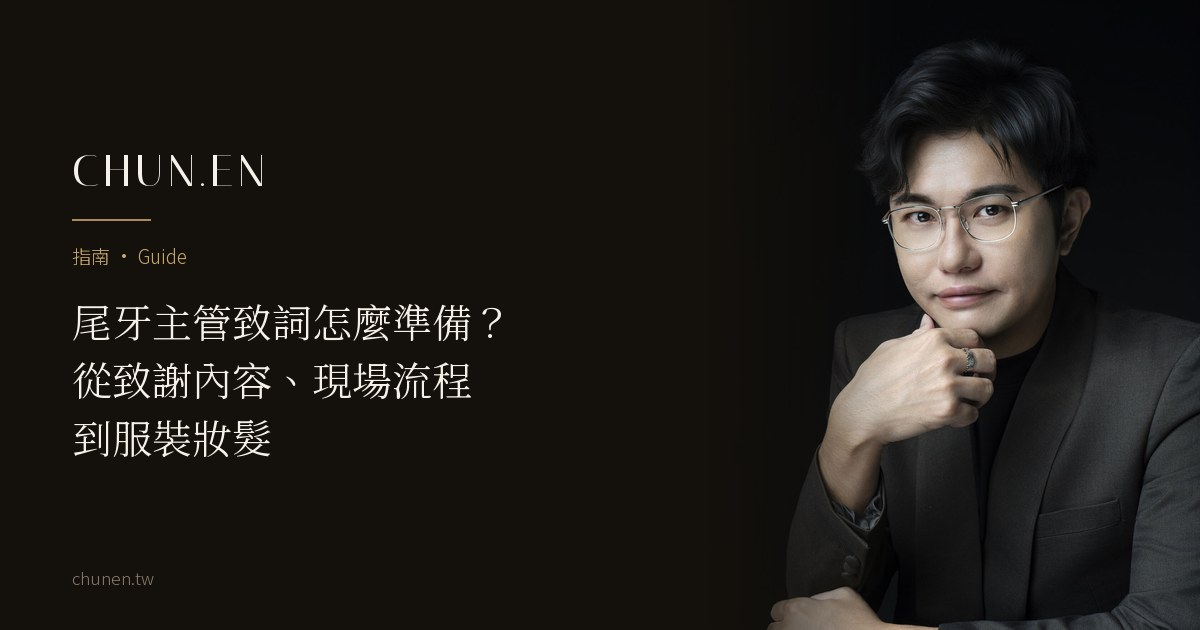
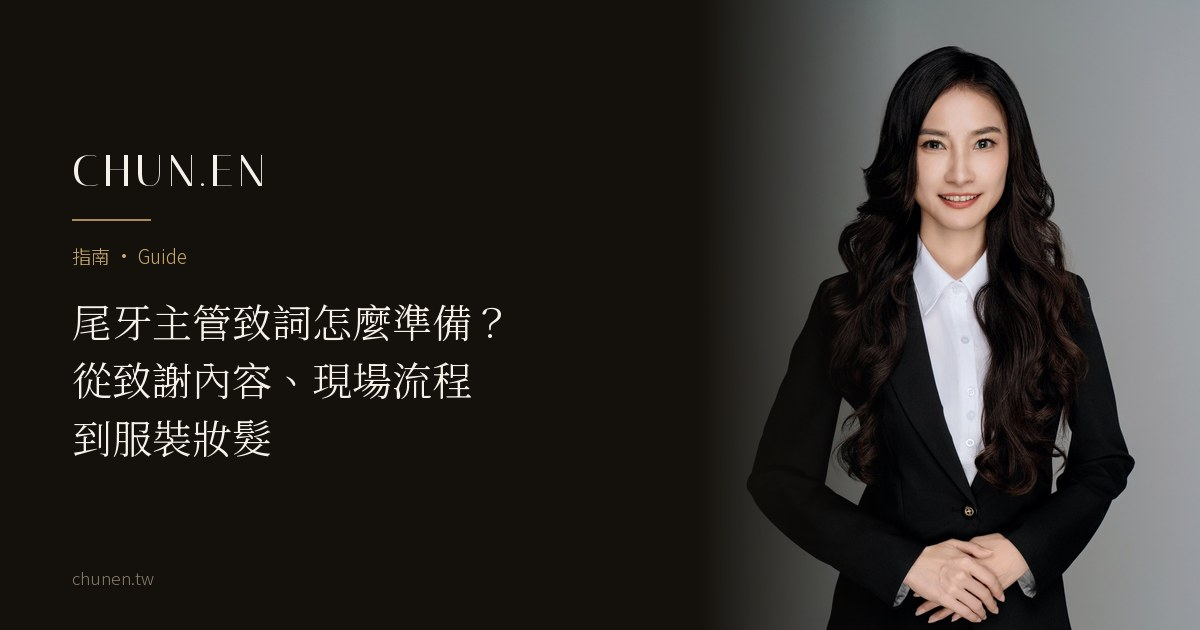
主管致詞、視訊面試預覽換客戶照主圖與分享卡（user 選定；仍 noindex）

Changed region(s): [[0.6167, 0.0, 1.0, 1.0]]

diff --git a/journal/year-end-stage-presence.html b/journal/year-end-stage-presence.html
@@ -77,7 +77,7 @@
 
     <div class="wrap article-wrap">
       <div class="jcard-media rv" style="aspect-ratio: auto; width: auto; max-width: 620px; margin: 0 auto clamp(2.5rem, 6vh, 4rem);">
-        <picture style="display:block"><source type="image/webp" srcset="../assets/gallery/works/24-760.webp 760w, ../assets/gallery/works/24-1240.webp 1240w" sizes="(max-width: 700px) calc(100vw - 40px), 620px" /><img src="../assets/gallery/works/24-1400.jpg" alt="戴眼鏡、穿深灰色西裝外套的男士，在黑色背景前以手輕托下巴" width="1400" height="2100" fetchpriority="high" style="width:100%;height:auto;display:block;" /></picture>
+        <picture style="display:block"><source type="image/webp" srcset="../assets/gallery/journal/year-end-stage-presence-hero-v1-760.webp 760w, ../assets/gallery/journal/year-end-stage-presence-hero-v1-1240.webp 1240w" sizes="(max-width: 700px) calc(100vw - 40px), 620px" /><img src="../assets/gallery/journal/year-end-stage-presence-hero-v1-1400.jpg" alt="穿黑色西裝外套與白襯衫、長捲髮的女士，在灰色背景前雙手交握微笑" width="1400" height="2100" fetchpriority="high" style="width:100%;height:auto;display:block;" /></picture>
       </div>
 
       <div class="keypoints rv">
@@ -213,7 +213,7 @@
     "@type": "Article",
     "headline": "尾牙主管致詞怎麼準備？從致謝內容、現場流程到服裝妝髮",
     "description": "尾牙主管致詞，先確認致謝對象、重要訊息與下一個環節，依主辦時段準備原定版和縮短版。整理主持人確認清單、服裝與麥克風安排，並從合照、彩排或迎賓等最早需要完妝的時間倒排妝髮。",
-    "image": "https://chunen.tw/assets/gallery/works/24-1400.jpg",
+    "image": "https://chunen.tw/assets/gallery/journal/year-end-stage-presence-hero-v1-1400.jpg",
     "author": {
       "@type": "Person",
       "@id": "https://chunen.tw/author/zoey-wu.html#zoey",

diff --git a/journal/video-call-setup-guide.html b/journal/video-call-setup-guide.html
@@ -77,7 +77,7 @@
 
     <div class="wrap article-wrap">
       <div class="jcard-media rv" style="aspect-ratio: auto; width: auto; max-width: 620px; margin: 0 auto clamp(2.5rem, 6vh, 4rem);">
-        <picture style="display:block"><source type="image/webp" srcset="../assets/gallery/works/17-760.webp 760w, ../assets/gallery/works/17-1240.webp 1240w" sizes="(max-width: 700px) calc(100vw - 40px), 620px" /><img src="../assets/gallery/works/17-1400.jpg" alt="穿淺藍色襯衫、深藍色背心並繫領帶的男士，坐在桌前以手輕托臉側" width="1400" height="2100" fetchpriority="high" style="width:100%;height:auto;display:block;" /></picture>
+        <picture style="display:block"><source type="image/webp" srcset="../assets/gallery/journal/video-call-setup-guide-hero-v1-760.webp 760w, ../assets/gallery/journal/video-call-setup-guide-hero-v1-1240.webp 1240w" sizes="(max-width: 700px) calc(100vw - 40px), 620px" /><img src="../assets/gallery/journal/video-call-setup-guide-hero-v1-1400.jpg" alt="穿淺灰色西裝外套與條紋襯衫的男士，坐在桌前，雙手放在桌面上" width="1400" height="2100" fetchpriority="high" style="width:100%;height:auto;display:block;" /></picture>
       </div>
 
       <div class="keypoints rv">
@@ -207,7 +207,7 @@
     "@type": "Article",
     "headline": "視訊面試要注意什麼？用實際通話檢查背景、鏡頭、光線與穿著",
     "description": "視訊面試先確認對方看得清楚、聽得清楚。用面試指定的平台、當天的設備與相近時段試通話，一起檢查背景、鏡頭高度、光線、穿著與妝髮，讓準備更有方向。",
-    "image": "https://chunen.tw/assets/gallery/works/17-1400.jpg",
+    "image": "https://chunen.tw/assets/gallery/journal/video-call-setup-guide-hero-v1-1400.jpg",
     "author": {
       "@type": "Person",
       "@id": "https://chunen.tw/author/zoey-wu.html#zoey",
